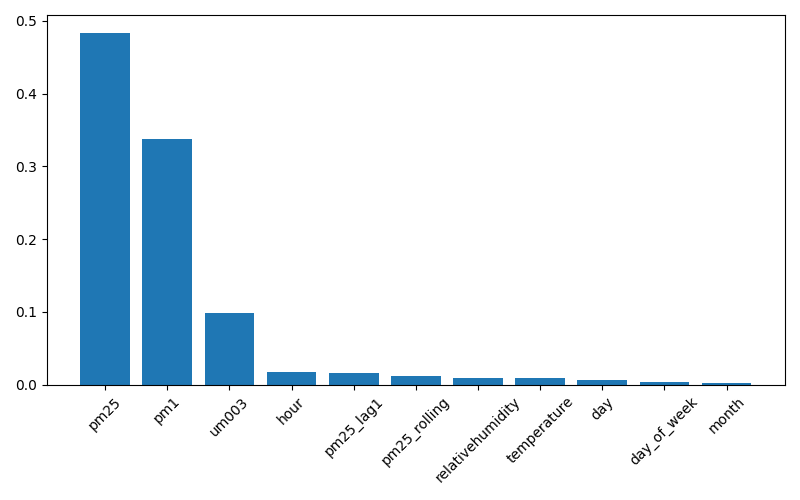
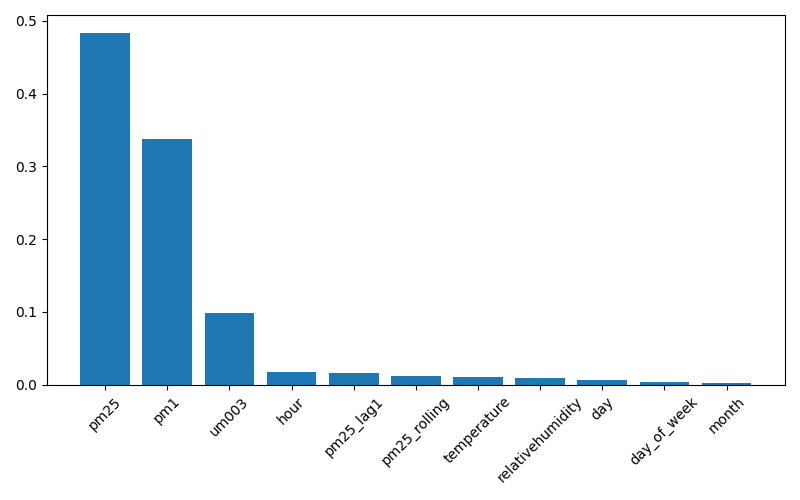
ui update with lastest data

Changed region(s): [[0.5312, 0.78, 0.6562, 0.96], [0.6562, 0.78, 0.7188, 0.9], [0.625, 0.9, 0.6562, 0.96]]

diff --git a/app_ui.py b/app_ui.py
@@ -1,21 +1,16 @@
 import streamlit as st
 import requests
 import pandas as pd
-from datetime import datetime
+from datetime import datetime, timezone
+import time
 
-# ============================================
-# PAGE CONFIG
-# ============================================
 st.set_page_config(
     page_title="AQI Predictor - Malang",
     page_icon="🌫️",
     layout="wide"
 )
 
-# ============================================
-# LOAD LATEST DATA
-# ============================================
[email redacted]_data(ttl=300)  # Cache 5 menit
[email redacted]_data(ttl=300)
 def get_latest_data():
     try:
         response = requests.get("http://localhost:8000/latest-data", timeout=5)
@@ -54,24 +49,47 @@ def predict_manual(data):
         pass
     return None
 
-# ============================================
-# HEADER
-# ============================================
+def time_ago(timestamp_str):
+    try:
+        if not timestamp_str:
+            return "tidak diketahui"
+        data_time = pd.to_datetime(timestamp_str)
+        now = pd.Timestamp.now(tz=data_time.tz)
+        diff = now - data_time
+        minutes = int(diff.total_seconds() / 60)
+        hours = minutes // 60
+        days = hours // 24
+        if minutes < 1:
+            return "baru saja"
+        elif minutes < 60:
+            return f"{minutes} menit yang lalu"
+        elif hours < 24:
+            return f"{hours} jam yang lalu"
+        else:
+            return f"{days} hari yang lalu"
+    except:
+        return "tidak diketahui"
+
 st.title("🌫️ Air Quality Index Predictor - Malang")
 st.markdown("Prediksi kualitas udara real-time menggunakan Machine Learning")
 
-# Status bar
 health = get_health()
+col_status1, col_status2, col_status3 = st.columns(3)
+
 if health and health.get("model_loaded"):
-    st.success(f"🟢 Sistem Aktif | Model: {health.get('model_source', 'loaded')} | MLflow: {'Terhubung' if health.get('mlflow_connected') else 'Tidak'}")
+    with col_status1:
+        st.success("🟢 API Aktif")
+    with col_status2:
+        st.success("🤖 Model Loaded")
+    with col_status3:
+        if health.get("mlflow_connected"):
+            st.success("📊 MLflow Terhubung")
+        else:
+            st.warning("📊 MLflow Offline")
 else:
-    st.error("🔴 Sistem Offline - Jalankan `docker compose up -d`")
+    st.error("🔴 Sistem Offline - Jalankan docker compose up -d")
 
 st.divider()
-
-# ============================================
-# MENU UTAMA: PREDIKSI SAAT INI
-# ============================================
 st.header("📡 Prediksi Kualitas Udara Saat Ini")
 
 latest = get_latest_data()
@@ -80,35 +98,68 @@ if latest and "latest_data" in latest and latest["latest_data"]:
     data = latest["latest_data"]
     pred = latest.get("prediction", {})
     
-    # Tampilkan data sensor terkini
+    data_timestamp = data.get("datetime", None)
+    
+    time_col1, time_col2, time_col3 = st.columns(3)
+    
+    with time_col1:
+        if data_timestamp:
+            try:
+                data_time = pd.to_datetime(data_timestamp)
+                st.info(f"📅 Data Sensor: {data_time.strftime('%d %B %Y, %H:%M WIB')}")
+            except:
+                st.info(f"📅 Data Sensor: {data_timestamp}")
+        else:
+            st.warning("📅 Data Sensor: Tidak diketahui")
+    
+    with time_col2:
+        ago = time_ago(data_timestamp)
+        if "menit" in ago and int(ago.split()[0]) < 30:
+            st.success(f"⏱️ Update: {ago}")
+        elif "jam" in ago:
+            st.warning(f"⏱️ Update: {ago}")
+        else:
+            st.error(f"⏱️ Update: {ago}")
+    
+    with time_col3:
+        now = datetime.now().strftime("%d %B %Y, %H:%M WIB")
+        st.info(f"🕐 Sekarang: {now}")
+    
+    if "menit" in ago and int(ago.split()[0]) < 30:
+        st.success("✅ Data masih realtime (kurang dari 30 menit)")
+    elif "jam" in ago and int(ago.split()[0]) < 2:
+        st.warning(f"⚠️ Data cukup baru ({ago})")
+    else:
+        st.error(f"❌ Data sudah lama ({ago}). Perlu update data!")
+        st.info("💡 Jalankan: python src/ingest_data.py untuk update data")
+    
+    st.divider()
     st.subheader("📊 Data Sensor Terkini")
     
     cols = st.columns(5)
-    metrics_map = {
-        "PM1.0": ("pm1", "µg/m³"),
-        "PM2.5": ("pm25", "µg/m³"),
-        "Humidity": ("relativehumidity", "%"),
-        "Temperature": ("temperature", "°C"),
-        "Ultrafine": ("um003", "particles/cm³"),
-    }
+    metrics_map = [
+        ("PM1.0", "pm1", "ug/m3"),
+        ("PM2.5", "pm25", "ug/m3"),
+        ("Humidity", "relativehumidity", "%"),
+        ("Temperature", "temperature", "C"),
+        ("Ultrafine", "um003", "particles/cm3"),
+    ]
     
     values = {}
-    for label, (key, unit) in metrics_map.items():
+    for i, (label, key, unit) in enumerate(metrics_map):
         val = data.get(key, "N/A")
         values[key] = val
-        with cols[list(metrics_map.keys()).index(label)]:
-            st.metric(f"{label}", f"{val:.1f}" if isinstance(val, (int, float)) else val, delta=None)
+        with cols[i]:
+            st.metric(f"{label}", f"{val:.1f}" if isinstance(val, (int, float)) else val)
     
     st.divider()
+    st.subheader("🔮 Hasil Prediksi AQI (1 Jam ke Depan)")
     
-    # Tampilkan prediksi
     if pred and "error" not in pred:
-        st.subheader("🔮 Hasil Prediksi AQI")
-        
         col1, col2, col3 = st.columns(3)
         
         with col1:
-            st.metric("PM2.5 Diprediksi", f"{pred['predicted_pm25']:.1f} µg/m³")
+            st.metric("PM2.5 Diprediksi", f"{pred['predicted_pm25']:.1f} ug/m3")
         with col2:
             aqi = pred['predicted_aqi']
             st.metric("Indeks AQI", f"{aqi:.0f}")
@@ -117,40 +168,39 @@ if latest and "latest_data" in latest and latest["latest_data"]:
             emoji = {"Good": "🟢", "Moderate": "🟡", "Unhealthy for Sensitive Groups": "🟠", "Unhealthy": "🔴", "Very Unhealthy": "🟣", "Hazardous": "⚫"}
             st.metric("Kategori", f"{emoji.get(cat, '❓')} {cat}")
         
-        # Progress bar
         st.markdown("**Level AQI:**")
         st.progress(min(aqi / 300, 1.0))
+        st.info(f"💡 Rekomendasi: {pred['recommendation']}")
         
-        # Rekomendasi
-        st.info(f"💡 **Rekomendasi:** {pred['recommendation']}")
+        st.subheader("📈 Perbandingan PM2.5 Saat Ini vs Prediksi")
+        comp_col1, comp_col2 = st.columns(2)
         
-        # Grafik perbandingan
-        st.subheader("📈 Perbandingan PM2.5")
-        chart_col1, chart_col2 = st.columns(2)
-        with chart_col1:
-            st.metric("PM2.5 Saat Ini", f"{values.get('pm25', 0):.1f} µg/m³")
-        with chart_col2:
+        with comp_col1:
+            st.metric("PM2.5 Saat Ini", f"{values.get('pm25', 0):.1f} ug/m3")
+        with comp_col2:
             delta = pred['predicted_pm25'] - values.get('pm25', 0)
-            st.metric("PM2.5 Prediksi (1 jam ke depan)", f"{pred['predicted_pm25']:.1f} µg/m³", 
-                     delta=f"{delta:+.1f} µg/m³", delta_color="inverse")
+            st.metric("PM2.5 Prediksi (1 jam depan)", f"{pred['predicted_pm25']:.1f} ug/m3", 
+                     delta=f"{delta:+.1f} ug/m3", delta_color="inverse")
+        
+        if abs(delta) < 5:
+            st.success("✅ PM2.5 diprediksi stabil dalam 1 jam ke depan")
+        elif delta > 10:
+            st.error(f"⚠️ PM2.5 diprediksi naik signifikan (+{delta:.1f} ug/m3)")
+        elif delta < -10:
+            st.success(f"🟢 PM2.5 diprediksi turun signifikan ({delta:.1f} ug/m3)")
     
     elif pred and "error" in pred:
         st.warning(f"⚠️ Prediksi gagal: {pred['error']}")
     else:
         st.warning("⚠️ Belum ada data prediksi")
-    
-    # Timestamp
-    st.caption(f"🕐 Data diperbarui: {datetime.now().strftime('%Y-%m-%d %H:%M:%S WIB')}")
 
 else:
-    st.warning("⚠️ Tidak dapat mengambil data terbaru. Pastikan API berjalan.")
-    st.info("💡 Jalankan: `docker compose up -d`")
+    st.warning("⚠️ Tidak dapat mengambil data terbaru.")
+    st.info("💡 Pastikan API berjalan: docker compose up -d")
+    st.info("💡 Update data sensor: python src/ingest_data.py")
 
 st.divider()
 
-# ============================================
-# MENU TAMBAHAN: INPUT MANUAL
-# ============================================
 with st.expander("🔧 Prediksi Manual (Input Sendiri)", expanded=False):
     col1, col2 = st.columns([1, 1])
     
@@ -160,13 +210,13 @@ with st.expander("🔧 Prediksi Manual (Input Sendiri)", expanded=False):
         with st.form("manual_form"):
             sub1, sub2 = st.columns(2)
             with sub1:
-                pm1 = st.number_input("PM1.0 (µg/m³)", 0.0, 500.0, 15.0, 0.1)
-                pm25 = st.number_input("PM2.5 (µg/m³)", 0.0, 500.0, 25.0, 0.1)
-                humidity = st.number_input("Humidity (%)", 0.0, 100.0, 65.0, 0.1)
+                pm1 = st.number_input("PM1.0 (ug/m3)", 0.0, 500.0, 15.0, 0.1, key="m_pm1")
+                pm25 = st.number_input("PM2.5 (ug/m3)", 0.0, 500.0, 25.0, 0.1, key="m_pm25")
+                humidity = st.number_input("Humidity (%)", 0.0, 100.0, 65.0, 0.1, key="m_hum")
             with sub2:
-                temp = st.number_input("Temperature (°C)", 0.0, 50.0, 28.0, 0.1)
-                um003 = st.number_input("Ultrafine Particles", 0.0, 5000.0, 500.0, 0.1)
-                hour = st.number_input("Hour (0-23)", 0, 23, datetime.now().hour)
+                temp = st.number_input("Temperature (C)", 0.0, 50.0, 28.0, 0.1, key="m_temp")
+                um003 = st.number_input("Ultrafine Particles", 0.0, 5000.0, 500.0, 0.1, key="m_um003")
+                hour = st.number_input("Hour (0-23)", 0, 23, datetime.now().hour, key="m_hour")
             
             manual_submit = st.form_submit_button("🔮 Predict", use_container_width=True)
     
@@ -183,7 +233,7 @@ with st.expander("🔧 Prediksi Manual (Input Sendiri)", expanded=False):
             
             if result:
                 st.success("✅ Prediksi Berhasil!")
-                st.metric("PM2.5", f"{result['predicted_pm25']:.1f} µg/m³")
+                st.metric("PM2.5", f"{result['predicted_pm25']:.1f} ug/m3")
                 st.metric("AQI", f"{result['predicted_aqi']:.0f}")
                 st.metric("Kategori", result['aqi_category'])
                 st.info(f"💡 {result['recommendation']}")
@@ -192,18 +242,15 @@ with st.expander("🔧 Prediksi Manual (Input Sendiri)", expanded=False):
         else:
             st.info("👈 Isi data dan klik Predict")
 
-# ============================================
-# SIDEBAR
-# ============================================
 with st.sidebar:
     st.header("📊 Informasi Model")
     info = get_model_info()
     if info:
         st.success("✅ Model Terhubung")
-        st.write(f"**Nama:** {info.get('model_name', 'AQI_Predictor')}")
-        st.write(f"**Stage:** {info.get('current_stage', 'Production')}")
-        st.write(f"**Source:** {info.get('model_source', 'local')}")
-        st.write(f"**Total Versi:** {info.get('total_versions', 1)}")
+        st.write(f"Nama: {info.get('model_name', 'AQI_Predictor')}")
+        st.write(f"Stage: {info.get('current_stage', 'Production')}")
+        st.write(f"Source: {info.get('model_source', 'local')}")
+        st.write(f"Total Versi: {info.get('total_versions', 1)}")
         if info.get('versions'):
             with st.expander("📋 Detail Versi"):
                 for v in info['versions']:
@@ -214,28 +261,30 @@ with st.sidebar:
     st.divider()
     
     st.header("📖 Kategori AQI")
-    st.markdown("""
+    st.markdown('''
     | AQI | Kategori | Emoji |
     |-----|----------|-------|
     | 0-50 | Good | 🟢 |
     | 51-100 | Moderate | 🟡 |
-    | 101-150 | Unhealthy (Sensitive) | 🟠 |
+    | 101-150 | Sensitive | 🟠 |
     | 151-200 | Unhealthy | 🔴 |
     | 201-300 | Very Unhealthy | 🟣 |
     | 300+ | Hazardous | ⚫ |
-    """)
+    ''')
+    
+    st.divider()
+    
+    st.header("🔄 Update Data")
+    st.code("python src/ingest_data.py", language="bash")
     
     st.divider()
     
     st.header("🔗 Akses Cepat")
-    st.markdown(f"""
+    st.markdown('''
     - [API Docs](http://localhost:8000/docs)
     - [MLflow UI](http://localhost:5000)
-    - [GitHub Repo](https://github.com/Izz5125/MLOps-Air_Quality_Prediction)
-    """)
+    - [GitHub](https://github.com/Izz5125/MLOps-Air_Quality_Prediction)
+    ''')
 
-# ============================================
-# FOOTER
-# ============================================
 st.divider()
-st.caption(f"🤖 MLOps Air Quality Prediction - Malang | © 2026 | Update: {datetime.now().strftime('%Y-%m-%d %H:%M')}")
+st.caption(f"🤖 MLOps Air Quality Prediction - Malang | © 2026 | Page loaded: {datetime.now().strftime('%Y-%m-%d %H:%M:%S')}")

diff --git a/api_service.py b/api_service.py
@@ -370,13 +370,19 @@ async def get_latest_data():
         return {"error": f"Data not found at {DATA_PATH}", "prediction": None}
     
     df = pd.read_csv(DATA_PATH)
-    latest = df.iloc[-1:][FEATURE_COLUMNS]
+    latest_row = df.iloc[-1:]
+    latest_features = latest_row[FEATURE_COLUMNS]
     
-    result = {"latest_data": latest.to_dict('records')[0], "prediction": None}
+    # Ambil datetime untuk ditampilkan
+    latest_data_dict = latest_features.to_dict('records')[0]
+    if 'datetime' in df.columns:
+        latest_data_dict['datetime'] = str(latest_row['datetime'].values[0])
+    
+    result = {"latest_data": latest_data_dict, "prediction": None}
     
     if model is not None:
         try:
-            predicted_pm25 = make_prediction(latest)
+            predicted_pm25 = make_prediction(latest_features)
             predicted_aqi = pm25_to_aqi(predicted_pm25)
             result["prediction"] = {
                 "predicted_pm25": round(predicted_pm25, 2),